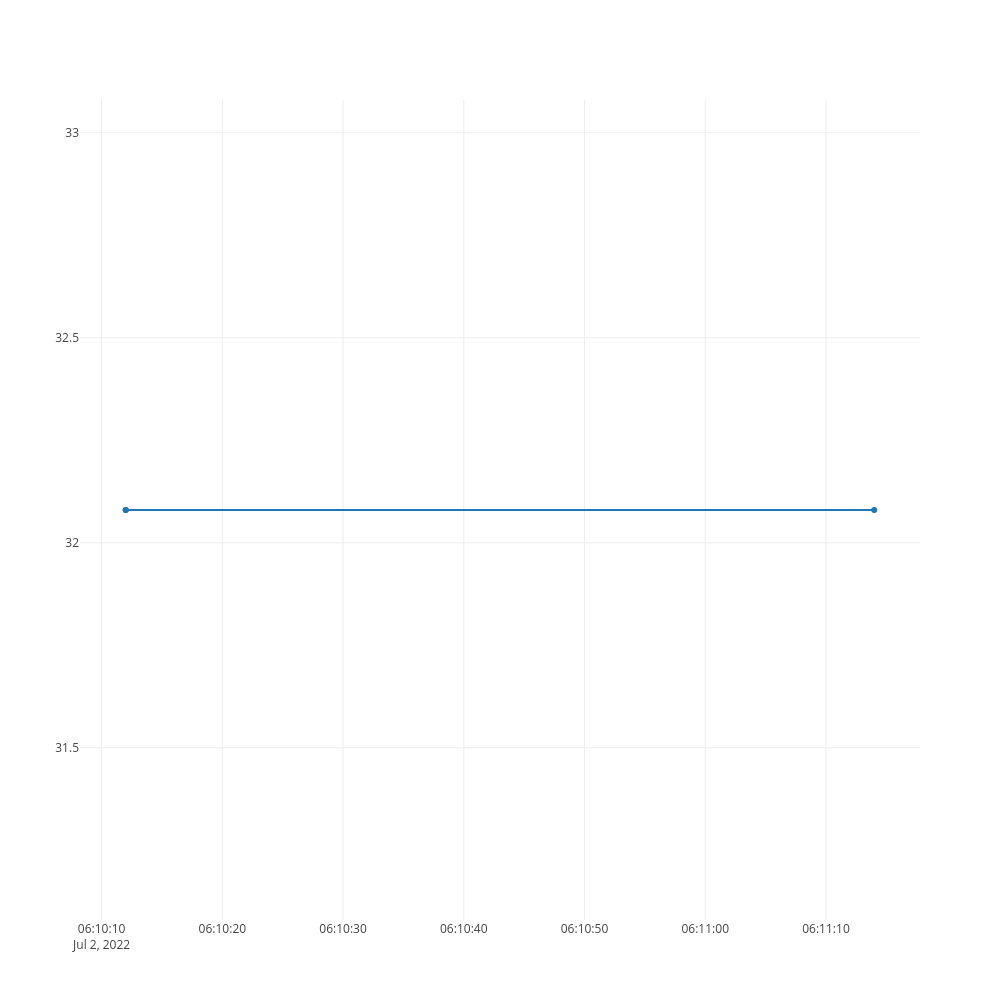
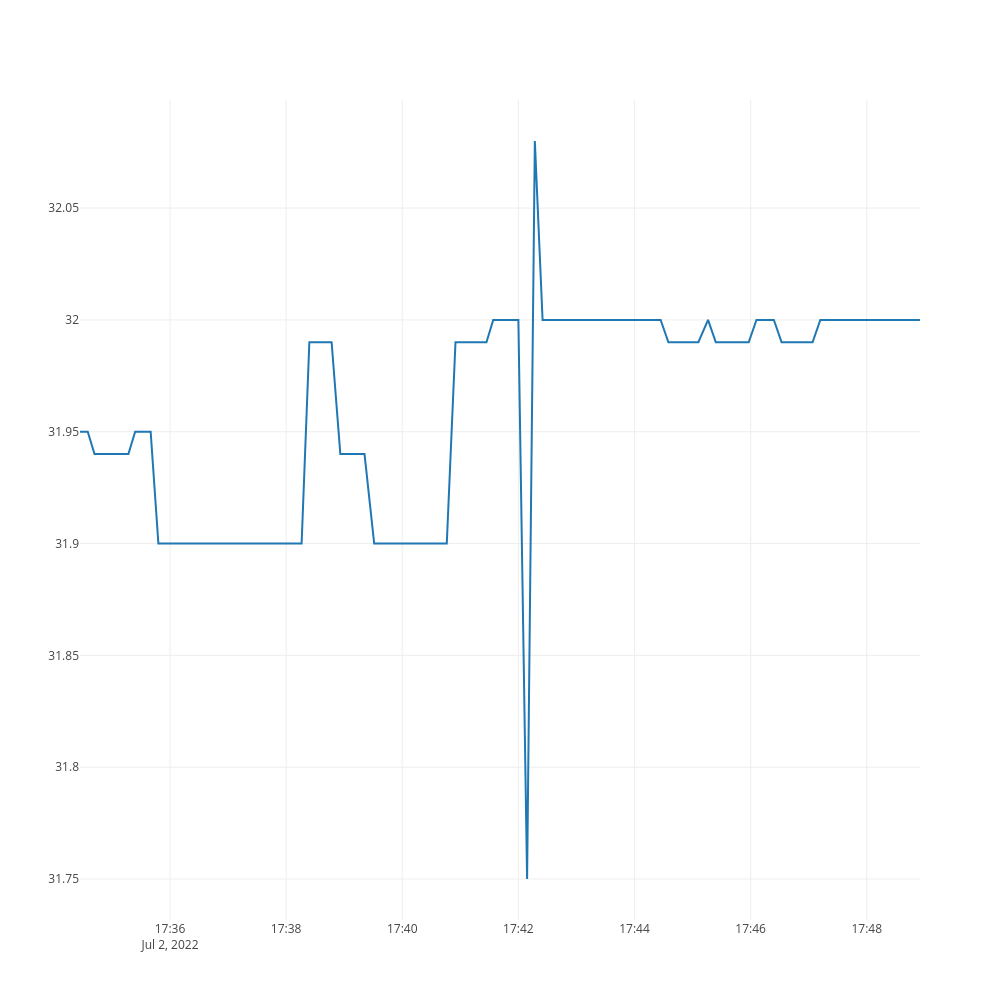
Chnage interval & plotting

diff --git a/api/telegram.js b/api/telegram.js
@@ -3,14 +3,12 @@ const { getP2PData } = require('../api/binance');
 const { normalizeElements, getValue } = require('../utils/normalizeElements');
 const { BANK_BLACK_LIST, MAX_LIST_SIZE, ELEMENTS_PER_PAGE, TELEGRAM_TOKEN, POLLING_INTERVAL } = require('../utils/constants');
 const { formatDate } = require('../utils/time');
-const path = require('path')
+const plotly = require('plotly')("eliaslebed", "noy9Hpoa6ZBRejpMJrRl")
+const fs = require('fs');
 
 const bot = new TelegramBot(TELEGRAM_TOKEN, { polling: true });
 
 const sleep = time => new Promise(resolve => setTimeout(resolve, time))
-
-var plotly = require('plotly')("eliaslebed", "noy9Hpoa6ZBRejpMJrRl")
-var fs = require('fs');
 
 const imgOpts = {
     format: 'png',
@@ -20,16 +18,9 @@ const imgOpts = {
 
 const writeStream = fs.createWriteStream('data.txt');
 fs.createWriteStream('1.png')
-const data = {
-    x: [],
-    y: []
-}
-
-console.log('POLLING_INTERVAL', POLLING_INTERVAL)
 
 const initiate = () => {
     bot.onText(/^\/start$/, async (msg) => {
-        console.log('msg', msg)
         const poll = (promiseFn, time) =>
             promiseFn().then(async (firstPage) => {
                 if (firstPage && firstPage.success) {
@@ -54,19 +45,24 @@ const initiate = () => {
                         const normalizedElements = normalizeElements(elements, BANK_BLACK_LIST, elementsConfigSize)
                         const value = getValue(elements, BANK_BLACK_LIST);
                         const allFileContents = fs.readFileSync('data.txt', 'utf-8');
+                        const data = { x: [], y: [] }
 
                         writeStream.write(`${value[0]}, ${formatDate(new Date())}\n`);
 
                         allFileContents.split(/\r?\n/).forEach(line => {
                             const [x, y] = line.split(',')
 
+                            if (!x && !y) {
+                                return
+                            }
+
                             data.x.push(x)
                             data.y.push(y)
                         });
 
                         const trace1 = {
-                            x: data.y.filter(y => y).map(y => y.trim(y)),
-                            y: data.x.filter(x => x).map(x => parseFloat(x)),
+                            x: data.y.map(y => y.trim()),
+                            y: data.x.map(x => parseFloat(x)),
                             type: "scatter"
                         };
 
@@ -77,7 +73,7 @@ const initiate = () => {
 
                             const fileStream = fs.createWriteStream('1.png');
 
-                            imageStream.pipe(fileStream);
+                            imageStream.pipe(fileStream)
 
                             const inputMediaArrayOne = [{
                                 type: 'photo',
@@ -93,9 +89,7 @@ const initiate = () => {
                     }
                 }
 
-                return sleep(time).then(() => {
-                    return poll(promiseFn, time)
-                })
+                return sleep(time).then(() => poll(promiseFn, time))
             })
 
         poll(getP2PData, POLLING_INTERVAL);

diff --git a/api/binance.js b/api/binance.js
@@ -1,9 +1,13 @@
-const https = require("https");
+const https = require('https');
 
 const host = 'p2p.binance.com'
 const search = `/bapi/c2c/v2/friendly/c2c/adv/search`
 
 const getP2PData = (page = 1, fiat = 'UAH', tradeType = 'BUY', asset = 'USDT', payTypes = []) => {
+    if (page >= 5) {
+        return
+    }
+
     return new Promise((resolve, reject) => {
         const obj = {
             page,
@@ -24,7 +28,7 @@ const getP2PData = (page = 1, fiat = 'UAH', tradeType = 'BUY', asset = 'USDT', p
             body: JSON.stringify(objToString)
         }
         const req = https.request(options, (res) => {
-            let output = "";
+            let output = '';
 
             res.on('data', d => {
                 output += d;
@@ -41,7 +45,7 @@ const getP2PData = (page = 1, fiat = 'UAH', tradeType = 'BUY', asset = 'USDT', p
         })
 
 
-        req.on("error", (error) => {
+        req.on('error', (error) => {
             reject(error);
         });
 
